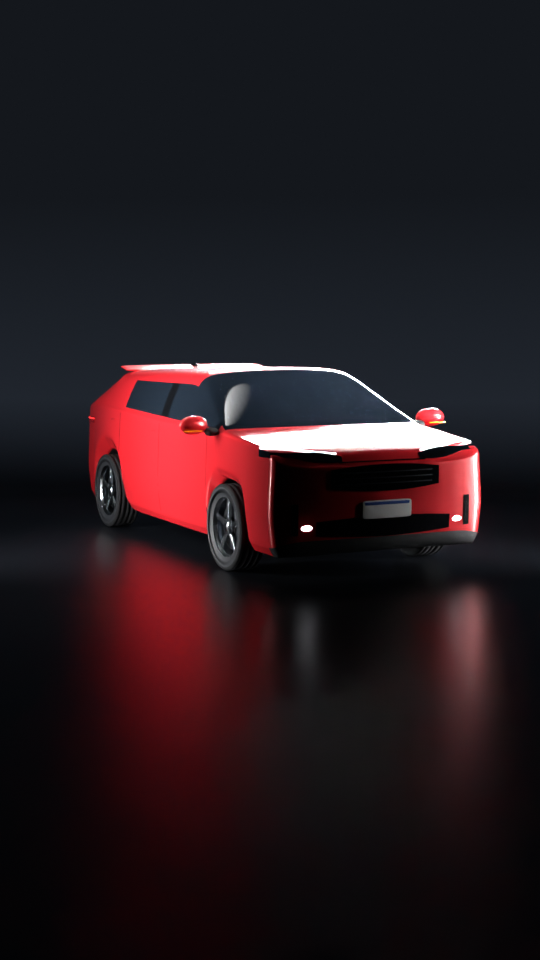
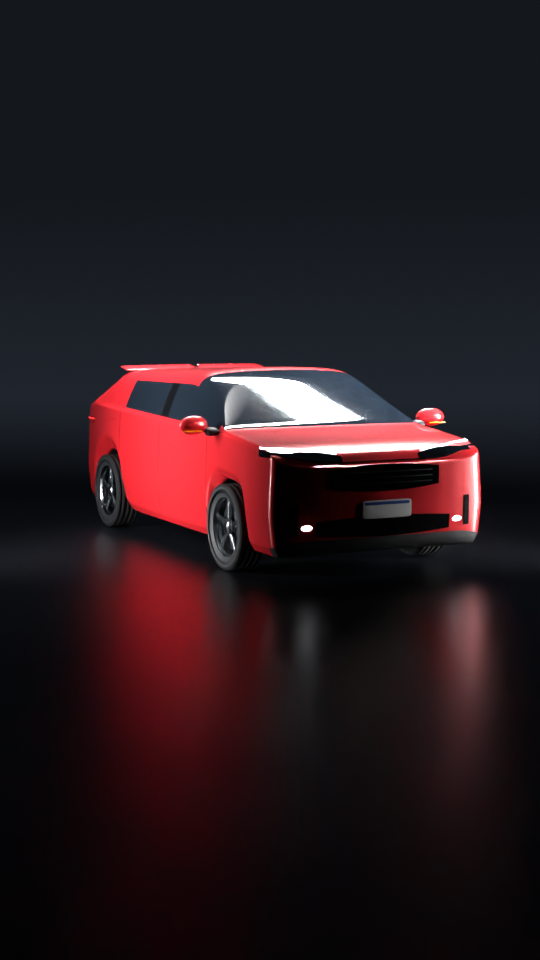
Checkpoint: trabalho em andamento dos agentes (carros reais / cenas técnicas)
Claude-Session: https://claude.ai/code/session_01LTuGaoNMB16qvfW22NeZiH

Changed region(s): [[0.1778, 0.375, 0.8889, 0.5]]

diff --git a/videos/_estilo3/veiculos_real_prova.py b/videos/_estilo3/veiculos_real_prova.py
@@ -237,7 +237,7 @@ def cena_tecnico(amostras, escala):
     tc.luz_area("strip_esq", (-3.4, -2.2, 1.5), alvo, 0.30, 4.8, 150, abertura=70)
     tc.luz_area("strip_dir", (3.6, -1.0, 1.5), alvo, 0.30, 4.8, 110, abertura=70)
     tc.luz_area("topo", (-0.6, 0.8, 4.8), alvo, 4.0, 0.35, 14, abertura=60)
-    rim = tc.luz_area("rim", (0.6, 4.0, 3.0), alvo, 4.0, 0.4, 320, abertura=45)
+    rim = tc.luz_area("rim", (0.3, 2.6, 5.4), alvo, 4.0, 0.4, 260, abertura=40)
     rim.visible_diffuse = True
     col = bpy.data.collections.new("alvo_rim_tecnico")
     for o in [D["raiz"]] + list(D["raiz"].children_recursive):
